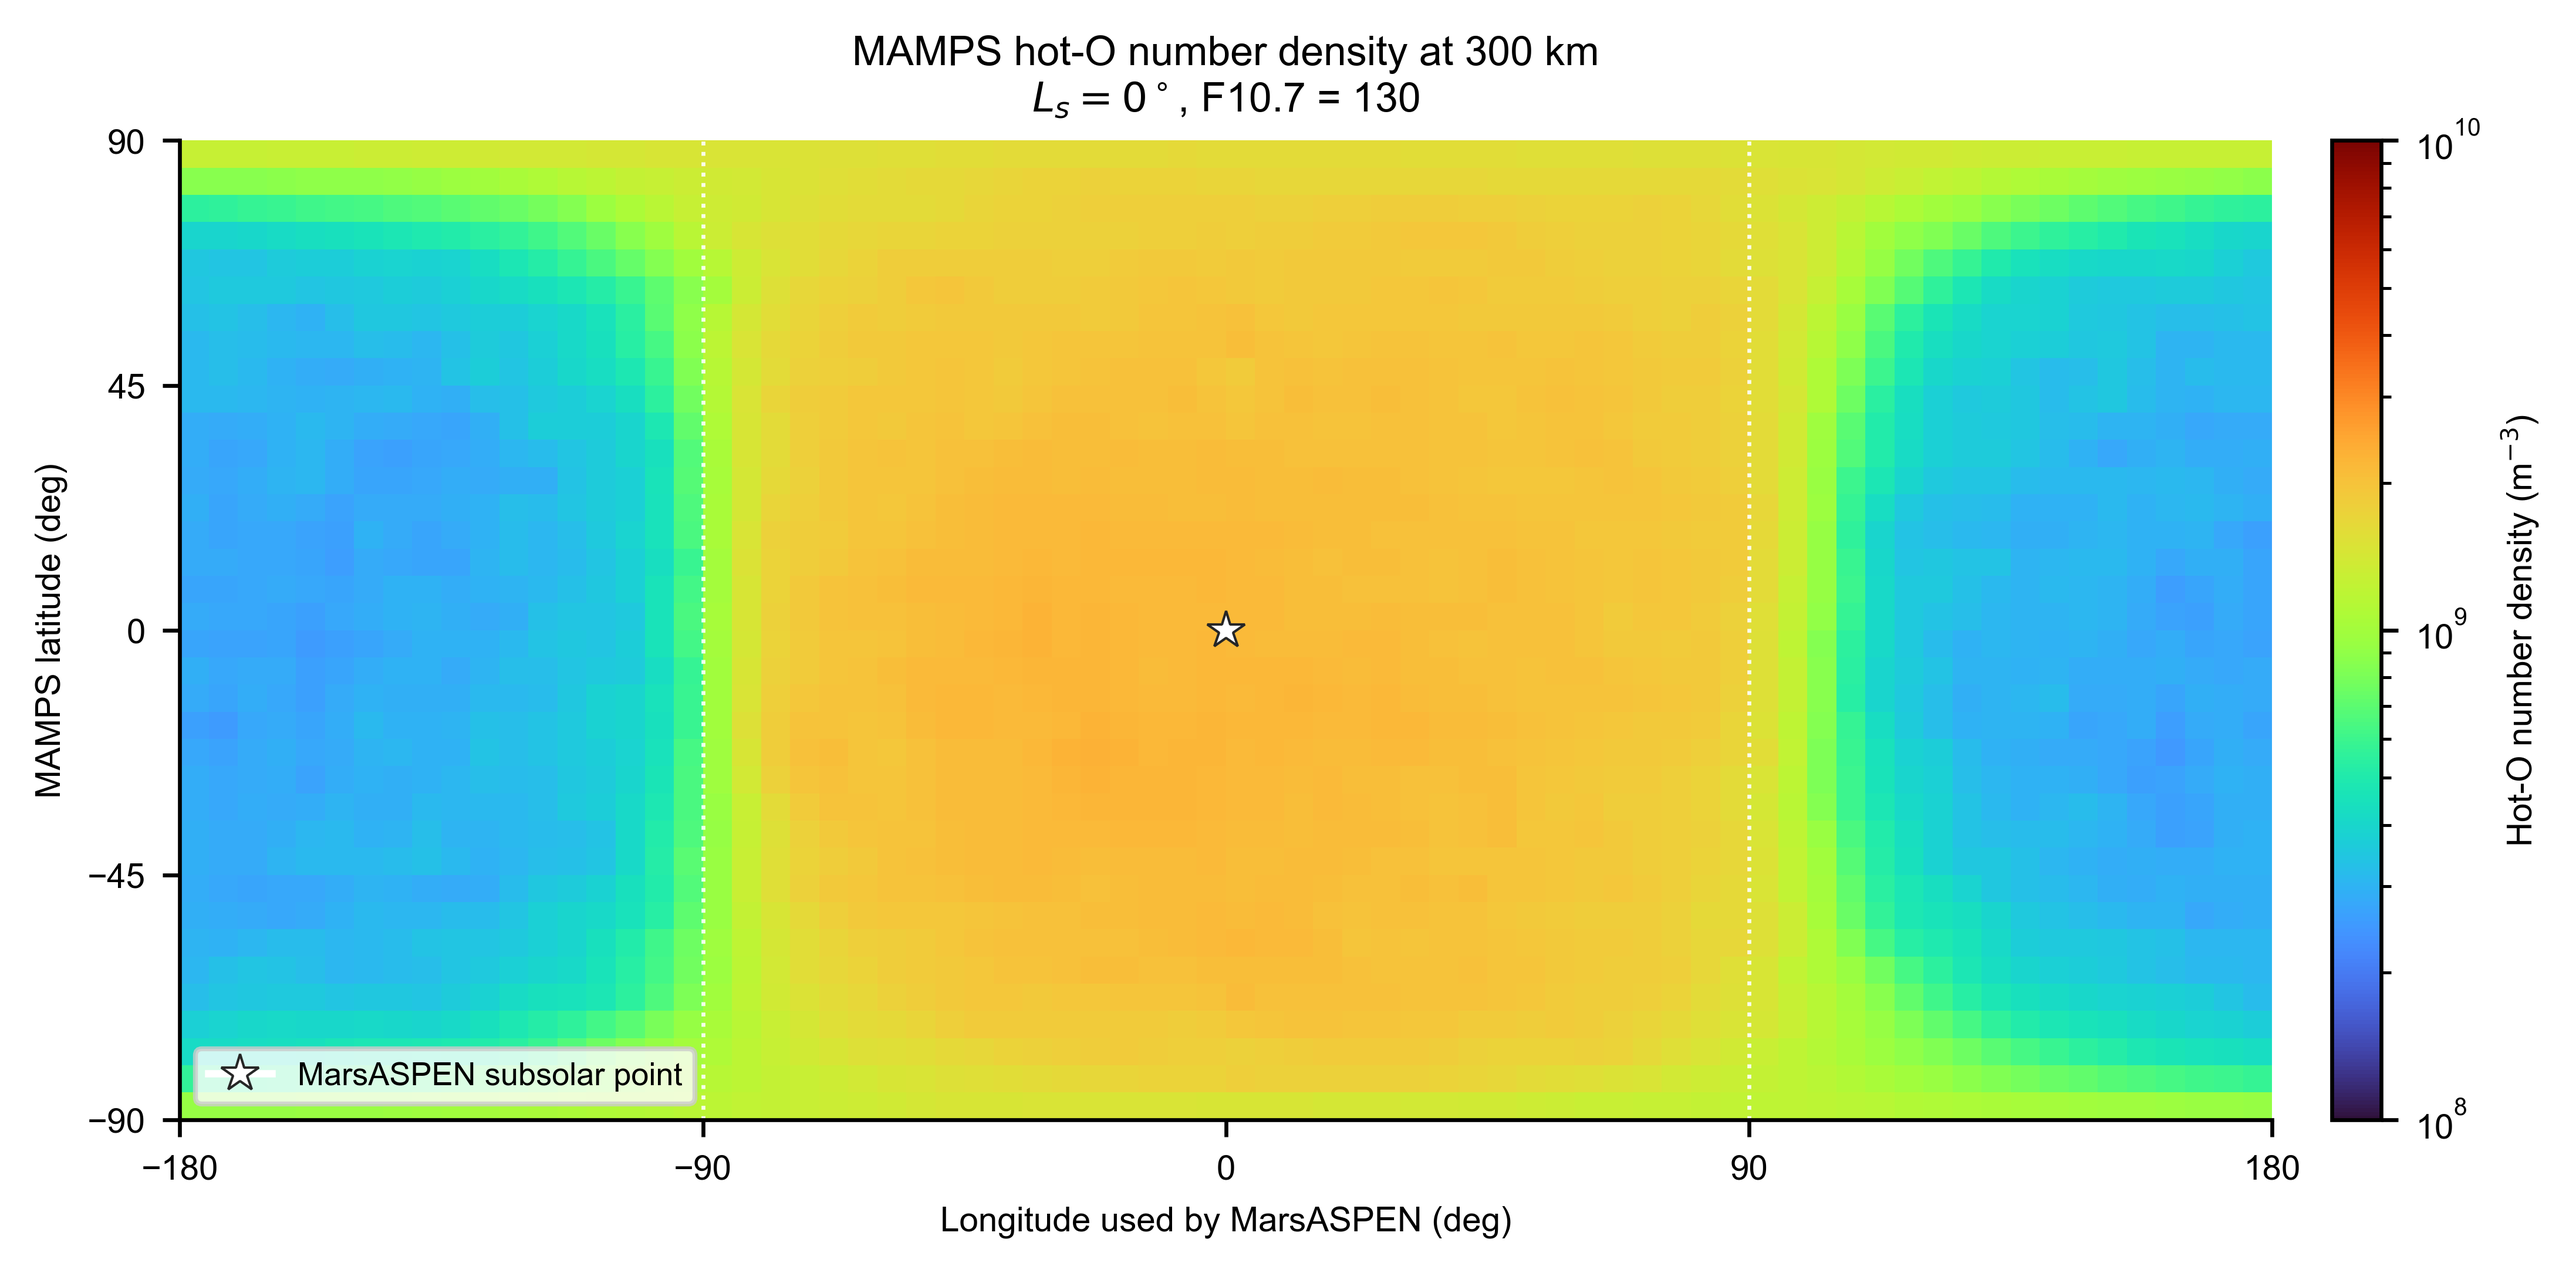
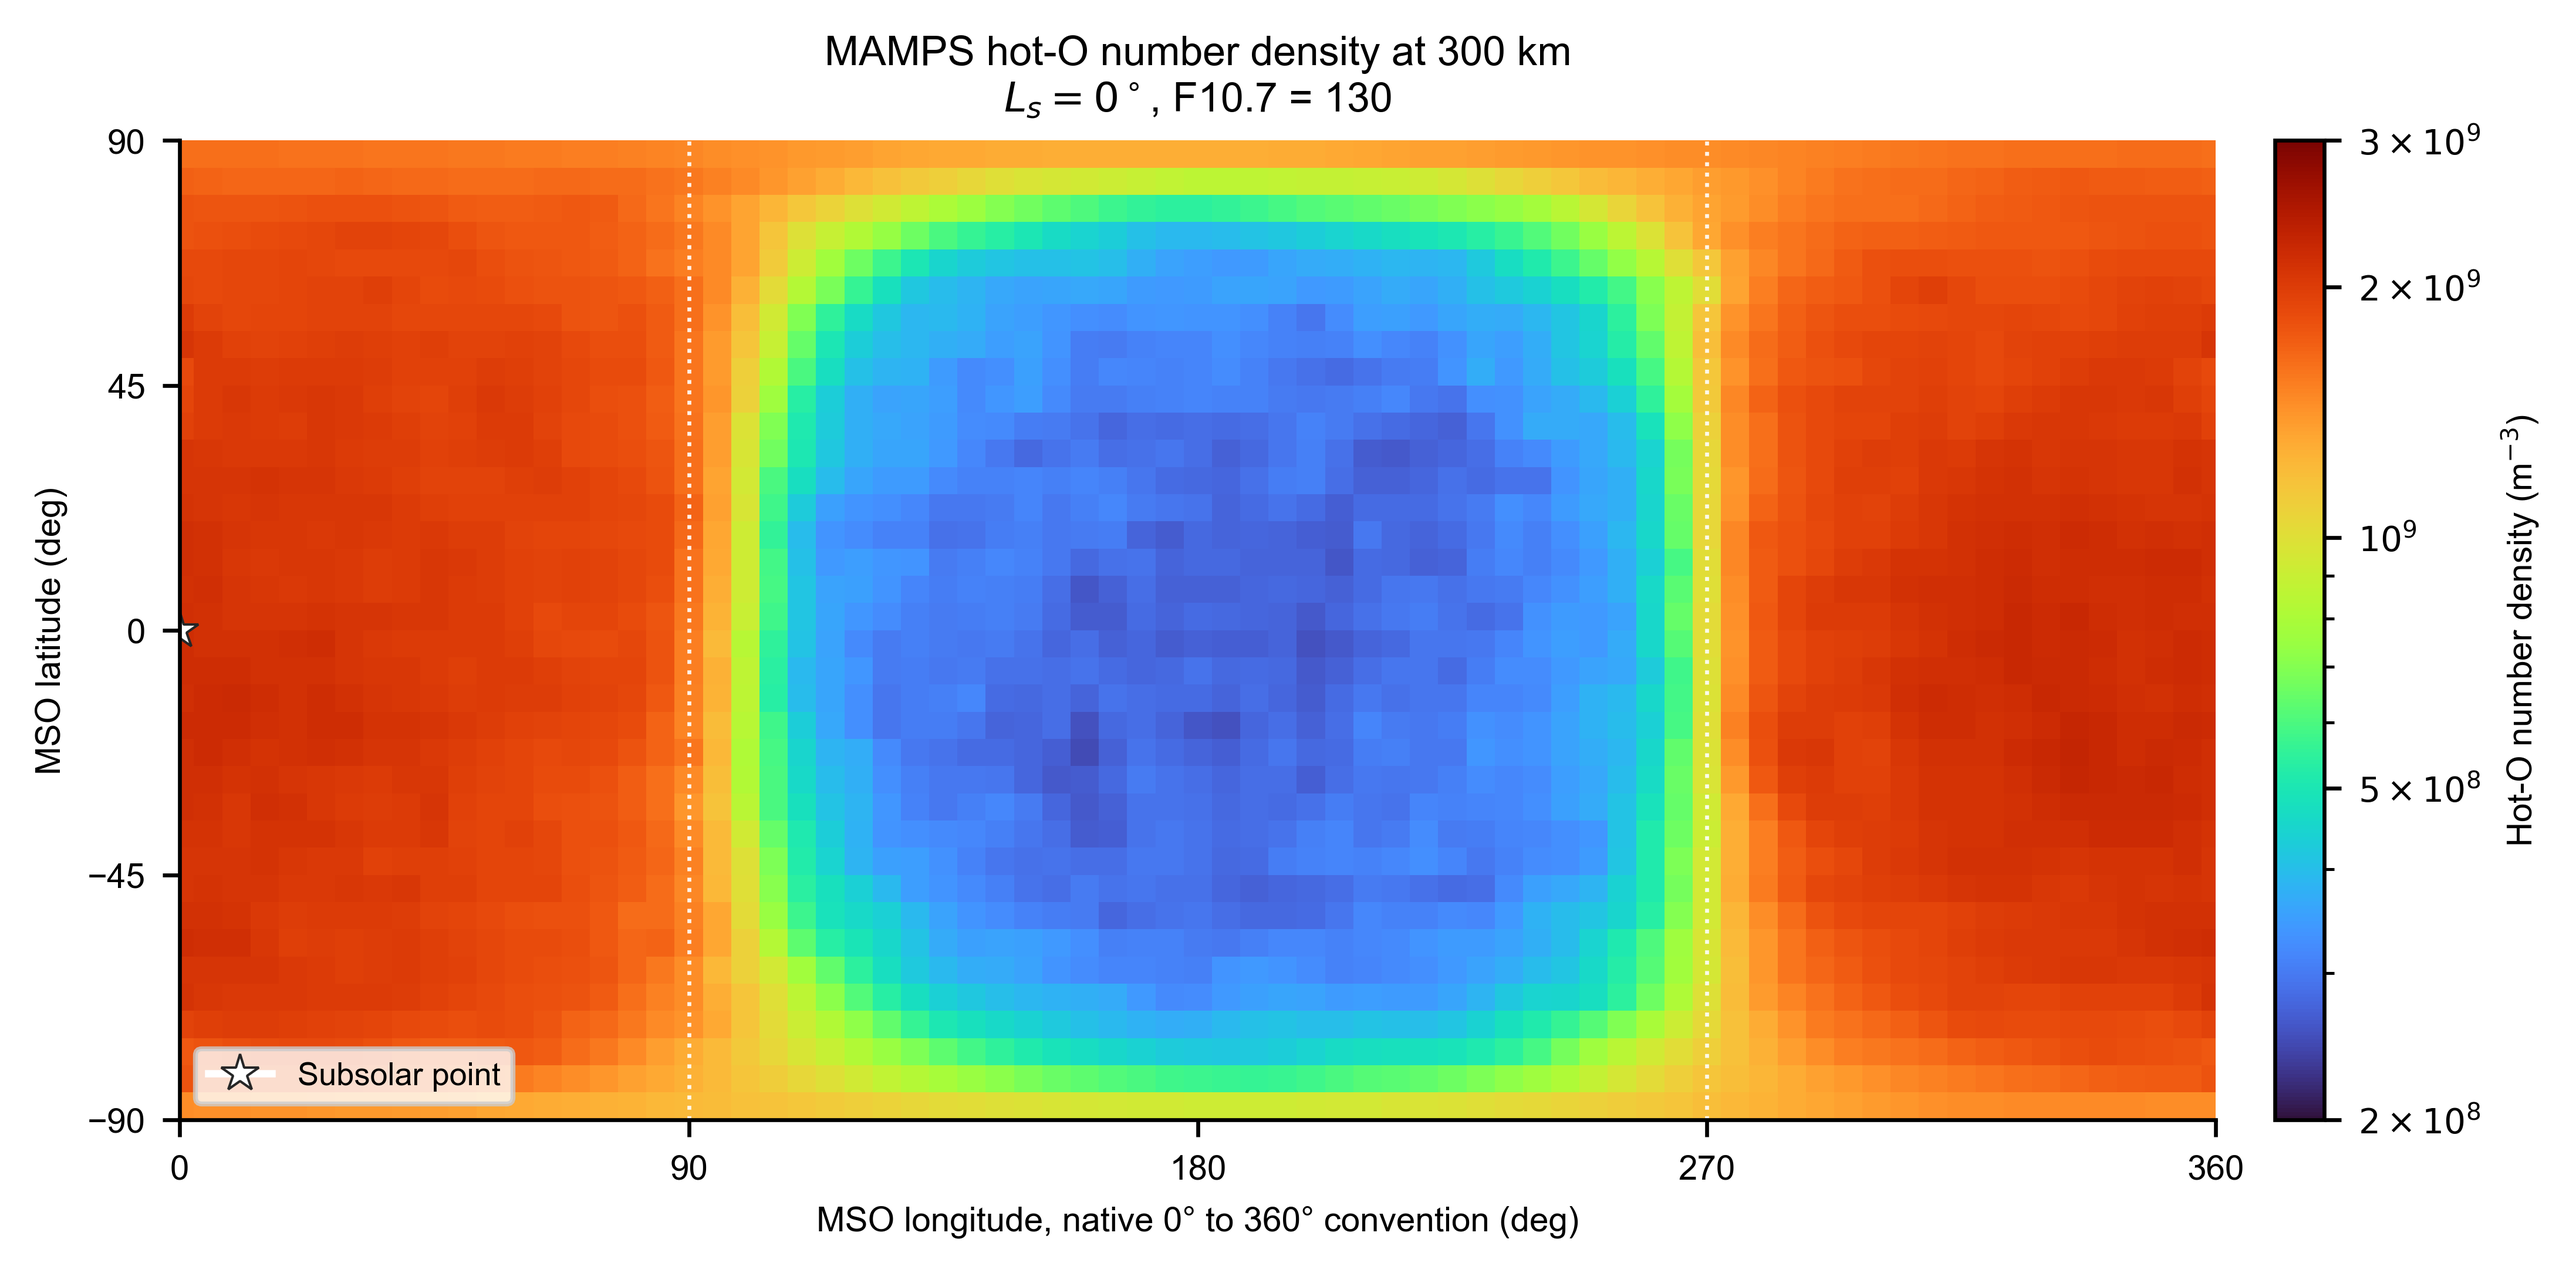
Use native longitude and tighter limits for AMPS map

diff --git a/examples/plot_mamps_hot_o_density_300km.py b/examples/plot_mamps_hot_o_density_300km.py
@@ -74,21 +74,21 @@ def main() -> None:
         mamps["alt_km"], mamps["nO_hot"], ALTITUDE_KM
     )
 
-    # Convert the native 0 to 360 degree ordering to a centered display.
-    density_lat_lon = np.roll(
-        density_lon_lat.T,
-        -(density_lon_lat.shape[0] // 2),
-        axis=1,
+    # Preserve the native 0 to 360 degree convention. Append the periodic
+    # duplicate of the 0-degree column at 360 degrees for seamless plotting.
+    density_lon_lat = np.concatenate(
+        (density_lon_lat, density_lon_lat[:1, :]), axis=0
     )
-    longitude_edges = np.linspace(-180.0, 180.0, 73)
+    longitude_centers = np.arange(0.0, 361.0, 5.0)
+    density_lat_lon = density_lon_lat.T
+    longitude_edges = coordinate_edges(longitude_centers)
     latitude_edges = coordinate_edges(mamps["lat_deg"])
     positive = density_lat_lon[
         np.isfinite(density_lat_lon) & (density_lat_lon > 0)
     ]
-    limits = (
-        10.0 ** np.floor(np.log10(positive.min())),
-        10.0 ** np.ceil(np.log10(positive.max())),
-    )
+    # Rounded limits closely bracket the actual 300-km range
+    # (2.49e8 to 2.30e9 m^-3) without clipping valid cells.
+    limits = (2.0e8, 3.0e9)
 
     fig, axis = plt.subplots(
         1, 1, figsize=(7.2, 3.5), constrained_layout=True
@@ -103,26 +103,31 @@ def main() -> None:
         rasterized=True,
     )
     axis.set(
-        xlim=(-180, 180),
+        xlim=(0, 360),
         ylim=(-90, 90),
-        xticks=(-180, -90, 0, 90, 180),
+        xticks=(0, 90, 180, 270, 360),
         yticks=(-90, -45, 0, 45, 90),
-        xlabel="Longitude used by MarsASPEN (deg)",
-        ylabel="MAMPS latitude (deg)",
+        xlabel="MSO longitude, native 0° to 360° convention (deg)",
+        ylabel="MSO latitude (deg)",
         title=(
             "MAMPS hot-O number density at 300 km\n"
             r"$L_s=0^\circ$, F10.7 = 130"
         ),
     )
-    axis.axvline(-90, color="white", lw=0.8, ls=":", alpha=0.9)
     axis.axvline(90, color="white", lw=0.8, ls=":", alpha=0.9)
+    axis.axvline(270, color="white", lw=0.8, ls=":", alpha=0.9)
     axis.plot(
         0.0, 0.0, marker="*", ms=8, color="white",
         markeredgecolor="0.15", markeredgewidth=0.5,
-        label="MarsASPEN subsolar point",
+        label="Subsolar point",
     )
     axis.legend(loc="lower left", fontsize=6.5)
     colorbar = fig.colorbar(mesh, ax=axis, pad=0.015)
+    colorbar.set_ticks((2.0e8, 5.0e8, 1.0e9, 2.0e9, 3.0e9))
+    colorbar.set_ticklabels(
+        (r"$2\times10^8$", r"$5\times10^8$", r"$10^9$",
+         r"$2\times10^9$", r"$3\times10^9$")
+    )
     colorbar.set_label(r"Hot-O number density (m$^{-3}$)")
 
     OUTPUT.parent.mkdir(parents=True, exist_ok=True)
@@ -132,6 +137,7 @@ def main() -> None:
         f"density_range_m3=({positive.min():.9g}, "
         f"{positive.max():.9g})"
     )
+    print(f"color_limits_m3={limits}")
     print(f"output={OUTPUT.resolve()}")
 
 
